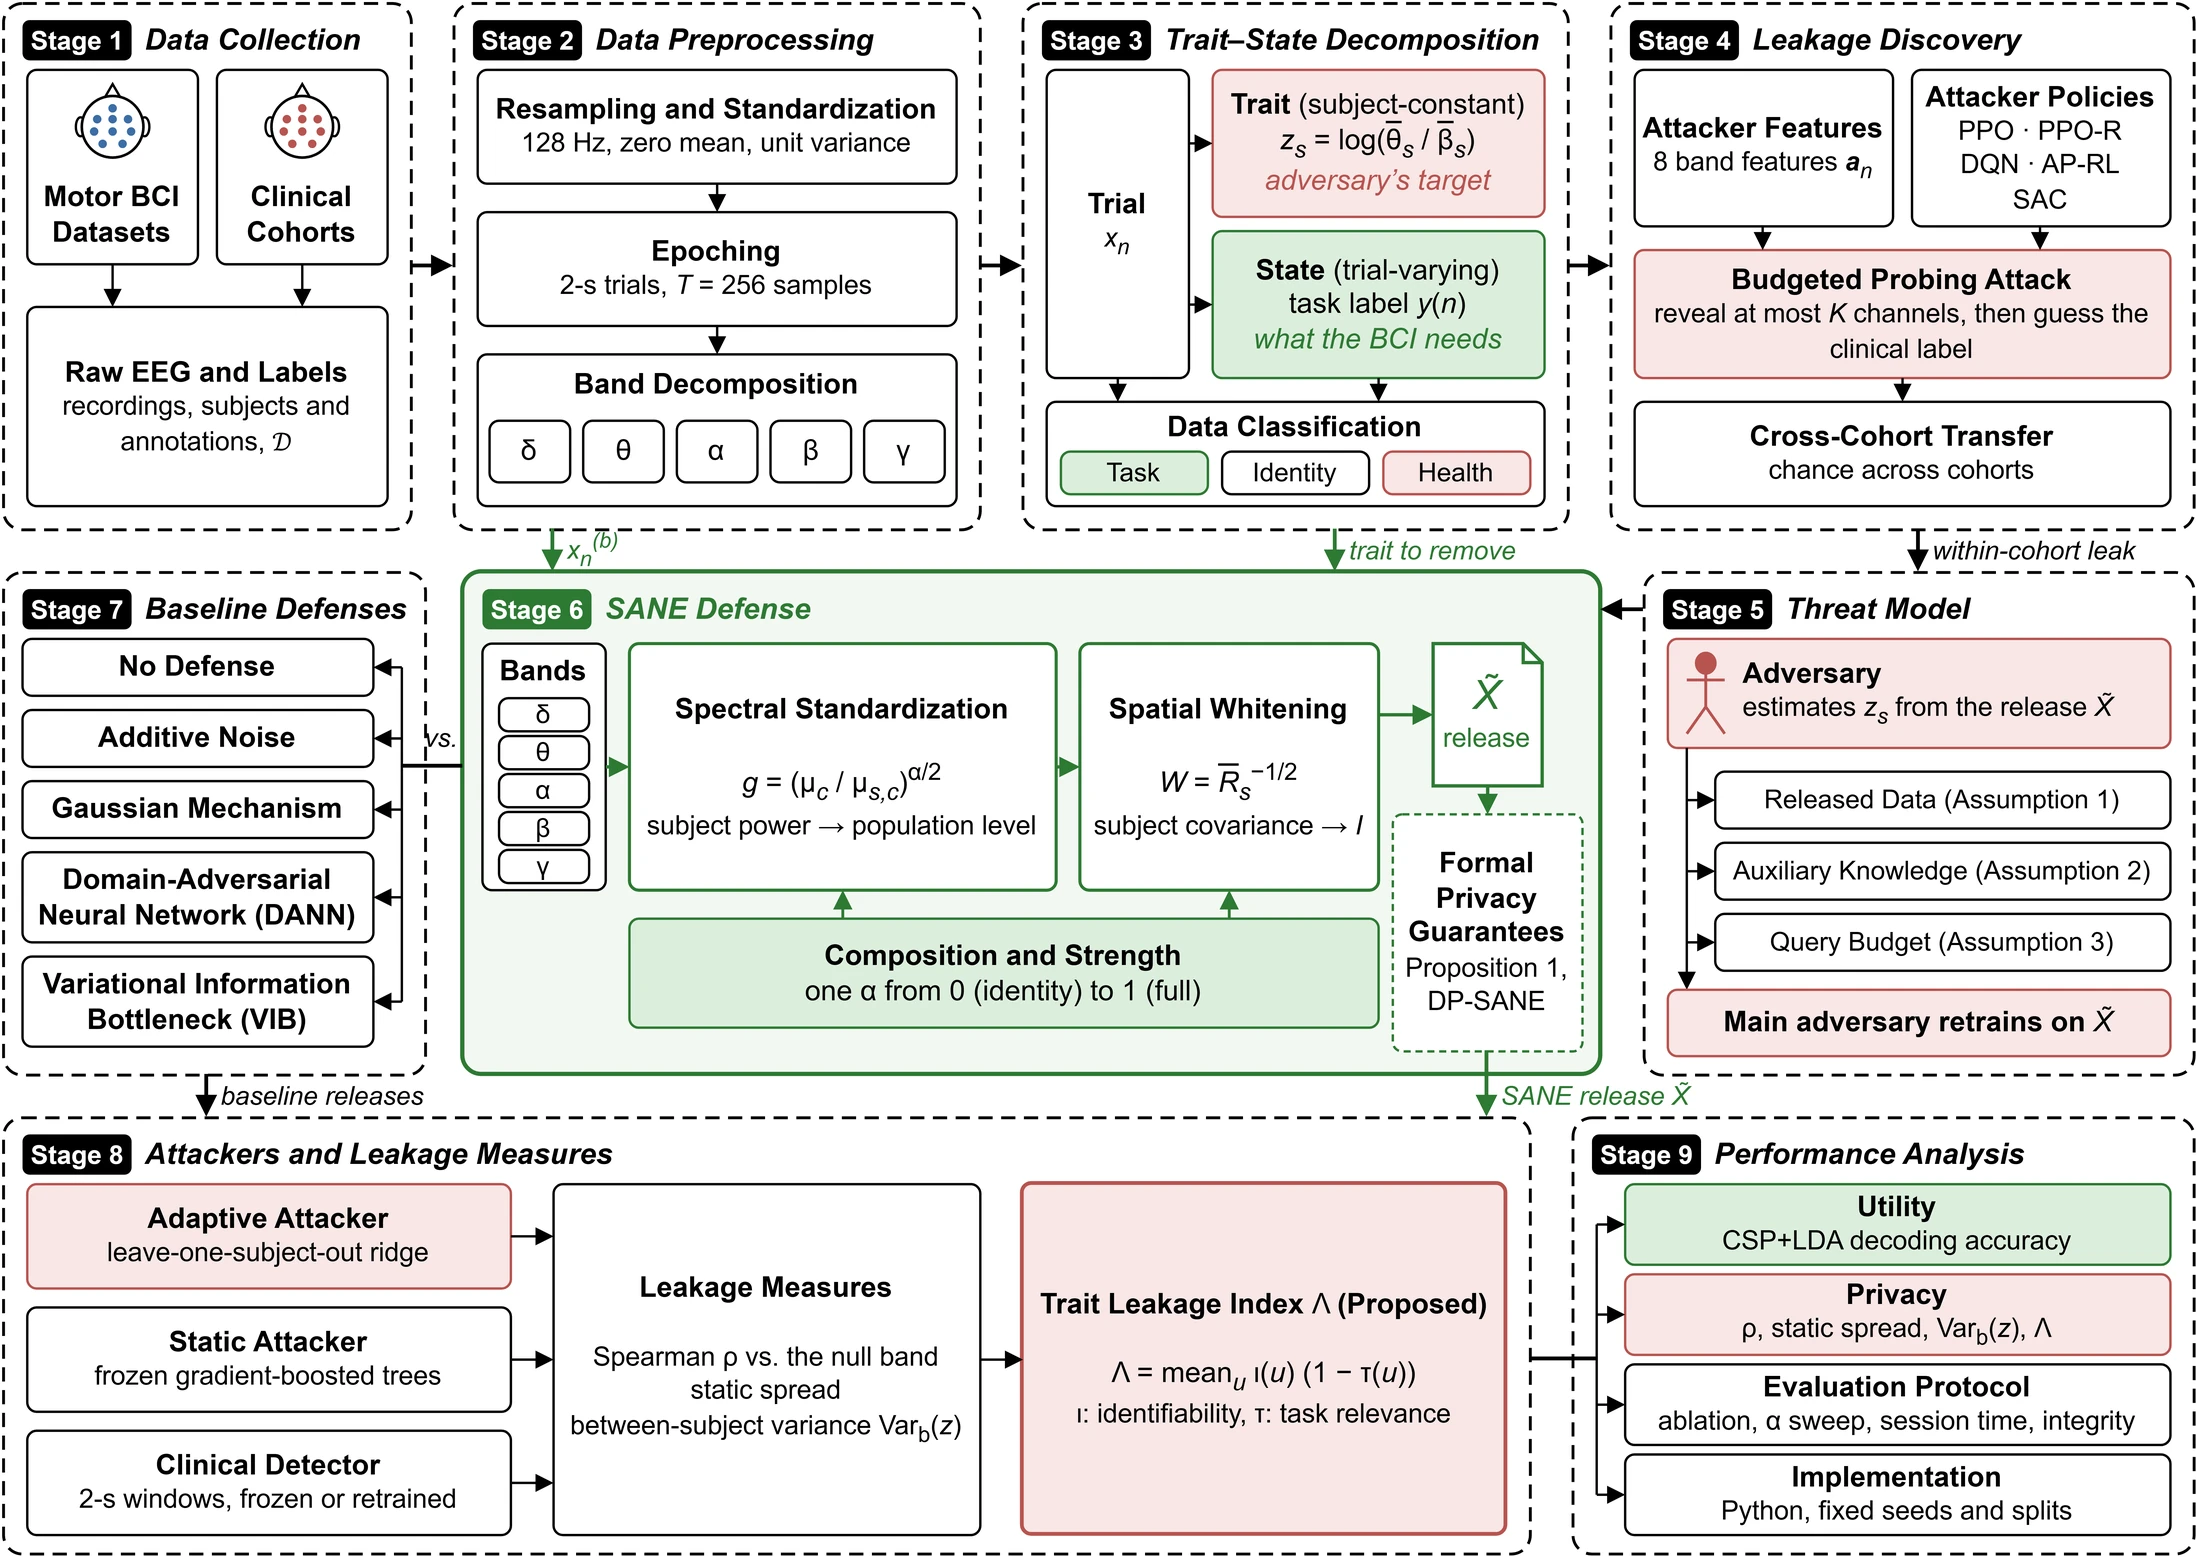
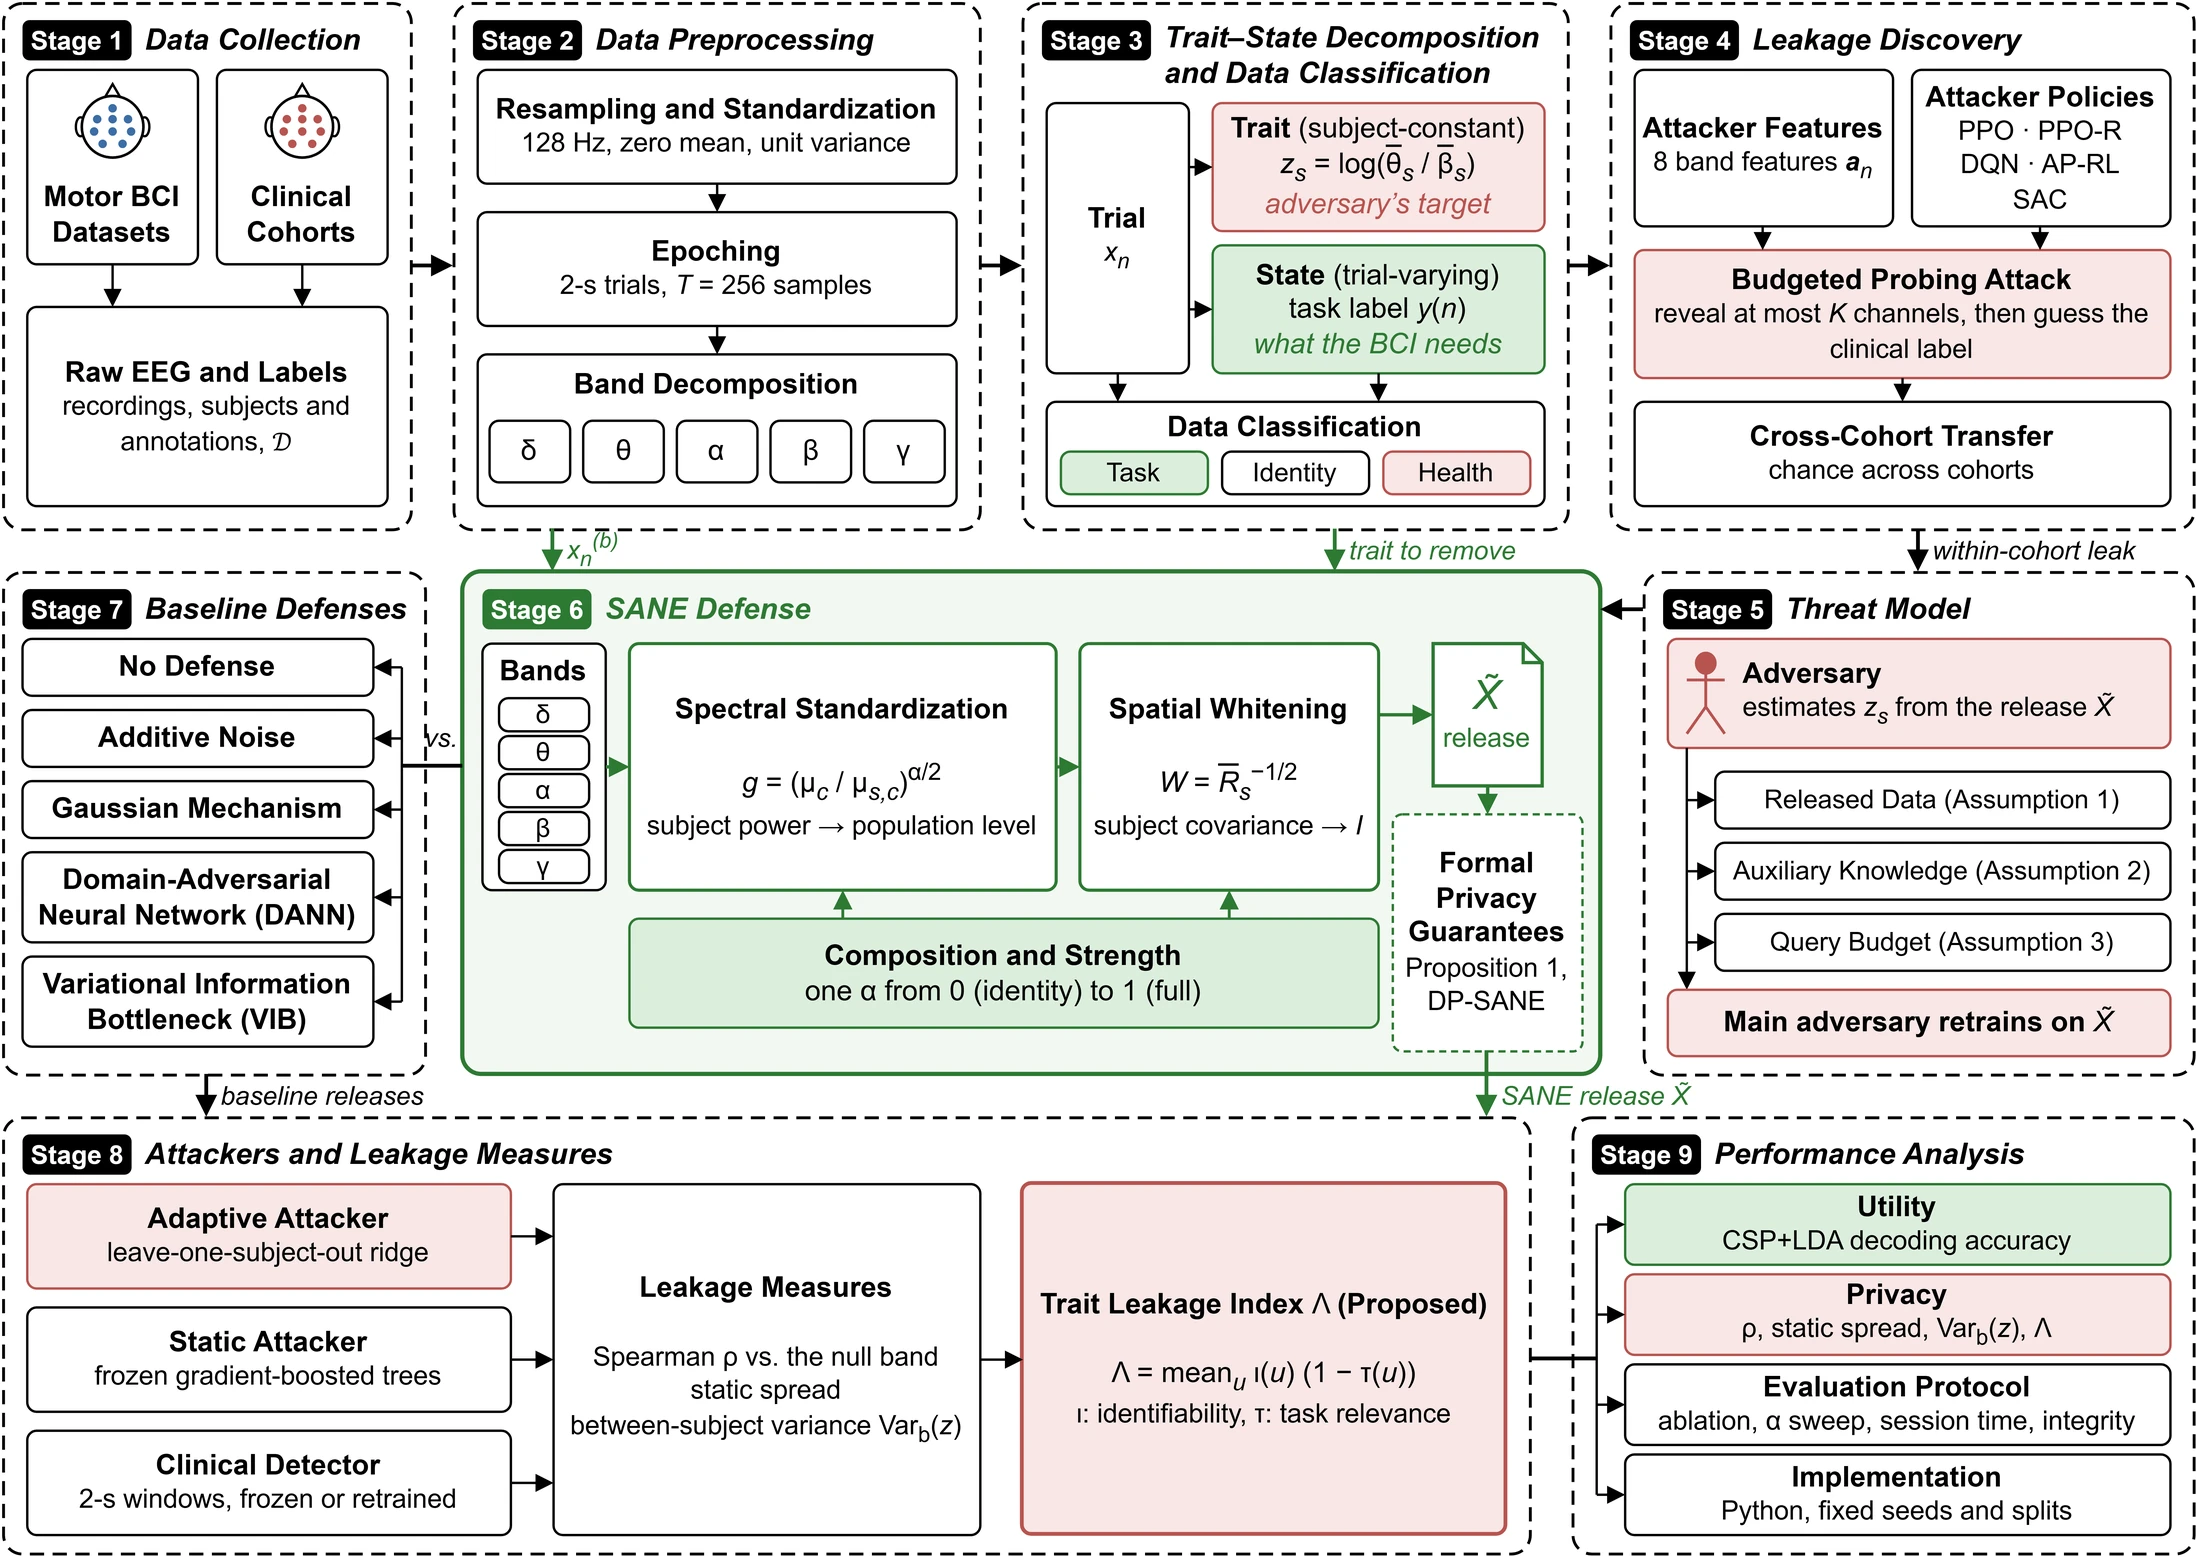
Show data classification in Stage 3 of Fig. 1 and in Step 2
Fig. 1 now names Stage 3 Trait-State Decomposition and Data
Classification, as in the paper, and Step 2 says how the task,
identity and health classes decide what SANE keeps and removes.

Changed region(s): [[0.4945, 0.0, 0.7109, 0.2462], [0.4945, 0.1231, 0.5255, 0.1538]]

diff --git a/index.html b/index.html
@@ -361,7 +361,7 @@ footer a { color: var(--text-2); }
       <li class="flow-card">
         <div class="flow-top"><span class="flow-n">Step 2</span><span class="tag">Method</span></div>
         <h3>Build SANE</h3>
-        <p>The attackers needed only band power. The leak sits in each subject’s spectral and spatial profile, which stays nearly the same across all of that subject’s trials, while the task lives in how trials differ. SANE equalizes this subject-level profile with spectral standardization and spatial whitening.</p>
+        <p>The attackers needed only band power. The leak sits in each subject’s spectral and spatial profile, which stays nearly the same across all of that subject’s trials, while the task lives in how trials differ. Sorting what a recording holds into task, identity and health classes shows what to keep and what to remove. SANE keeps the task class and equalizes the subject-level profile with spectral standardization and spatial whitening.</p>
         <p class="flow-fact"><b>No labels</b> are used to fit SANE, so no diagnosis or attribute has to be chosen in advance.</p>
       </li>
       <li class="flow-card">
